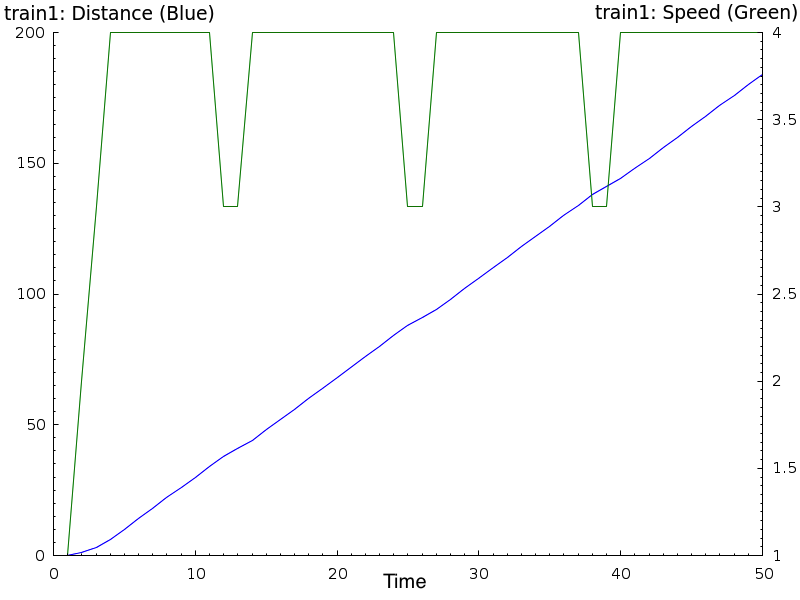
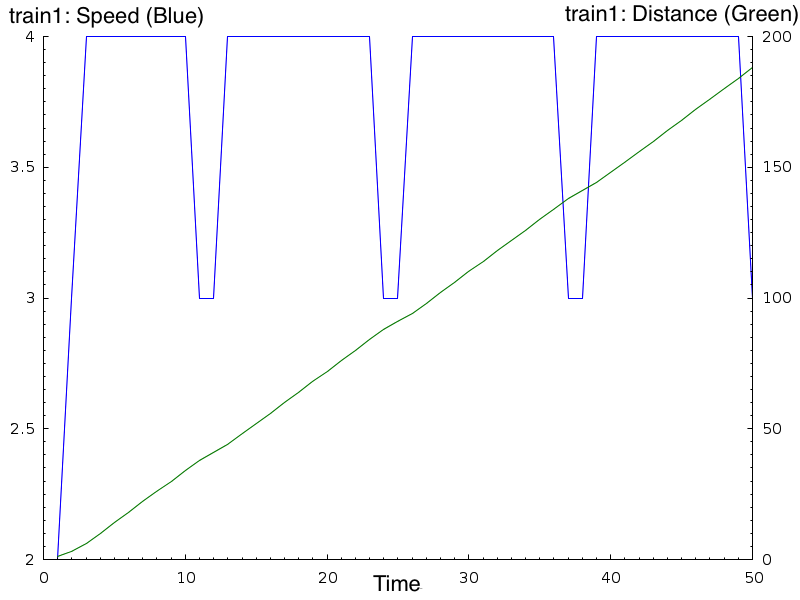
updated graphs

diff --git a/verifyertms.tex b/verifyertms.tex
@@ -31,14 +31,14 @@ Like the interlocking, the RBC is also initially idle. Since the lasttrain varia
 
 \begin{lstlisting}[caption = The intital state of train1 in Maude]
  eq initialtrainstate1 = < train1 : Train | state : acc,  dist : 0, 
-                           speed : 0, ac : 1, ma : 49, 
+                           speed : 1, ac : 1, ma : 49, 
                            tseg : 0, maxspeed : 4 > .
 \end{lstlisting}
 We set the train1 to be accellerating initally with a distance and speed of 0 its movement authority is 49, it is in the 0 track segment and has a maxspeed of 4. 
 
 \begin{lstlisting}[caption = The intial state of train2 in Maude]
 eq initialtrainstate2  = < train2 : Train | state : acc, dist : 150, 
-                           speed : 0, ac : 1, ma : 199,
+                           speed : 1, ac : 1, ma : 199,
                            tseg : 3, maxspeed : 7 > .
 \end{lstlisting}
 Like train1, train2 is also accellerating initially and has a speed of 0.  Unlike train1 it has a distance of 150, a movement authority of 199, it is in the 4th track segment number 3 and has a maxspeed of 4. Both trains have an accelleration of 1. 
@@ -168,14 +168,12 @@ eq {REST < O1 : Train | state : S >} |= train-cons(O1)
 
 This predicate holds if there is a train in the configuration with object identifier O1 and a state cons. 
 
-
-
- We can use these two properties for formulate model checkng properties to check the correctness of our modelling approach. We can define two properties, one that states "the train is in the cons state if and only it is at its max speed" and the other "the train is in the stopped state if and only if its speed is 0". 
+We can use these two properties for formulate model checkng properties to check the correctness of our modelling approach. We can define two properties, one that states "the train is in the cons state if and only it is at its max speed" and the other "the train is in the stopped state if and only if its speed is 0". 
 
 \begin{lstlisting}
-Correct1 := 
-Correct2 :=
-Correct3 :=
+Correct1 := (mc initialstate2 |=u  ~(<> train-s(train1,5))  .)
+Correct2 := (mc initialstate2 |=u [] (train-s(train1,4) => train-cons(train1)) /\ (train-cons(train1) => train-s(train1,4)) .)
+Correct3 := (mc initialstate2 |=t [] ((train-s(train1,0) => (train-stop(train1) \/ train-brake(train1))) /\ (train-stop(train1) => train-s(train1,0))) .)
 \end{lstlisting}
 
 
@@ -248,12 +246,12 @@ The following table presents the times taken to verify the 4 safety properties M
 \begin{center}
 \begin{tabular}{c | c | c} 
 Safety Condition & Time Steps Checked & Time to Solve  \\ \hline
-Correct1 & untimed & s\\
-Correct2 & untimed & s\\
+Correct1 & untimed & 123.778 s\\
+Correct2 & untimed & 260.384s\\
 Correct3 & untimed & s\\
-MA1 (Pentagon)& untimed &77.724s  \\
-MA2 (Pentagon)& untimed &79.192s \\ 
-MA3 (Pentagon)&  untimed &79.380s \\
+MA1 (Pentagon)& untimed &134.703s  \\
+MA2 (Pentagon)& untimed &330.288s \\ 
+MA3 (Pentagon)&  untimed &343.856s \\
 P1 (Junction)& untimed &7.488s \\
 P2 (Junction)& untimed & 6.636s \\
 \end{tabular}
@@ -268,16 +266,25 @@ The no overlapping movement authorities safety property was verified using time 
 Safety Condition & Time Steps Checked & Time to Solve  \\ \hline
 MA1 (Realistic Pentagon) & 30 & 21.265s \\
 MA1 (Realistic Pentagon) & 40 & 30.453s \\
-MA1 (Realistic Pentagon) & 50 & 40.825s
+MA1 (Realistic Pentagon) & 50 & 40.825s \\
+MA1 (Realistic Pentagon) & 60 & 52.492s \\
+MA1 (Realistic Pentagon) & 70 & 65.224s \\
 \end{tabular}
 \end{center}
 
+Even though the Real Time Maude system is unable to performed untimed model checking on this example it can still perform bounded model checking of a large enough portition of the state space for us to be
 
 \section{Conclusion}
  We have presented the first attempt at modelling and verifying the combined ERTMS and interlocking system.
 \subsection*{Future Work}
 There are numerous ways in which our model can be extended. One of the biggest problems facing engineers when developing the ERTMS system is time and how it affects the transition of messages with delays often occurring. This could be easily be modelled following the work \cite{PO07} where delays are modelled in the communications between nodes of a wireless sensor network. Currently our trains have a jerky behaviour in terms of speed, breaking and accelerating in rapid succession there are several other behaviours that trains exhibit in real life that we have not captured in our model. Trains have the ability to coast where the engine in not powering the train but the brakes are not active which is used for several purposes. To save energy coasting and accelerating are often combined to hold the train at max speed. The trains may also coast before breaking when reaching the end of a movement authority.
 
-Currently the track is closed and trains are capable of looping round the track giving it an infinite state space. Opening up the track with an entrance and exit would provide the opportunity to model the hand over part of the protocol where new trains must register with the RBC on entering the track and then de-register upon leaving. This opening of the track would also finitise the state space possibly allowing for un-timed model checking to take place. This example could then be extended by increasing the complexity of the track further and then modelling routes and points. This would allow for the checking of a further safety conditions that states no train has a movement authority over a point in locked in the wrong direction or a moving point.
+
+\begin{comment}
+Currently the track is closed and trains are capable of looping round the track giving it a very large state space due to number of possible combinations of train location and speed. Opening up the track with an entrance and exit would provide the opportunity to model the hand over part of the protocol where new trains must register with the RBC on entering the track and then de-register upon leaving. This would  This example could then be extended by increasing the complexity of the track further and then modelling routes and points. This would allow for the checking of a further safety conditions that states no train has a movement authority over a point in locked in the wrong direction or a moving point.
+\end{comment}
+
+This next challenge would be to verify to verify some real world track layouts as would be controlled by the ERTMS system on its implementation. \textbf{Note to self: write some paragraph here to replace the above. something about different track layouts that can be verified.}
+
 
 The RBC has the possibility to pre-emptively grant movement authorities to trains without them requesting it in the case that a train is on a route which contains free sections of track behind a movement authority.  The trains could also request movement authorities before the point at which we reach the braking point.

diff --git a/Maude.tex b/Maude.tex
@@ -2,7 +2,7 @@
 
 \thesischapter{The Modelling of the European Rail Traffic Management System Using Real Time Maude}{The Modelling of ERTMS Using Real Time Maude}\label{chap:modelertms}
 
-In the following we present the Maude \cite{MC03,Maude} and Real Time Maude \cite{PO02,PO04,RTMaude} tools and describe how they can be used model the ERTMS system (See chapter \ref{chapter:ERTMS}).   We begin by giving a general introduction to Maude and Real Time Maude and then describe how each of the 3 subsystems (trains, the interlocking and the RBC) are specified following the hybrid automata formalisation found in chapter \ref{chap:hybrid}. Each of these individual components are modelled using object oriented specification. We define classes representing each of the subsystems and then rewrite rules are used to give objects from these classses behaviour. The  built-in message construct of the Real Time Maude system are used to define communication between the subsystems.
+In the following we present the Maude \cite{MC03,Maude} and Real Time Maude \cite{PO02,PO04,RTMaude} tools and describe how they can be used model the ERTMS system (See chapter \ref{chapter:ERTMS}).   We begin by giving a general introduction to Maude and Real Time Maude and then describe how each of the 3 subsystems (trains, the interlocking and the RBC) are specified following the hybrid automata formalisation found in chapter \ref{chap:hybrid}. Each of these individual components are modelled using object oriented specification. We define classes representing each of the subsystems and then rewrite rules are used to give objects from these classses behaviour. The  built-in message construct of the Real Time Maude system are used to define communication between the subsystems. 
 
 \subsection*{Related Work}
 The Maude System has been used for a variety of specification and verification tasks. Hardware such has microprocessors has been specified and verified \cite{NH00}. A distributed sensor network employing the OGDC algorithm has been modelled and verified using Real Time Maude \cite{PO07}. The modelling of the progression of time over the sensor network has inspired the distribution of in our ERTMS model. The Real Time Maude system can also be used for simulation and analysis of systems as seen in the work on the CASH Scheduling Algorithm \cite{PO06}. 
@@ -336,6 +336,7 @@ In our previous Real Time Maude specifications we have had a rewrite rules that 
 
 \begin{lstlisting}[caption = The delta time transition operation, label = code:delta]
 op delta : Configuration -> Configuration [frozen] . 
+op nondelta : Configuration -> Configuration .
 
 var OCREST : ObjectConfiguration .
 
@@ -343,7 +344,7 @@ rl [timetrans] : {OCREST} => {delta(OCREST)} in time 1 .
 rl [delta1] : delta(CON1 CON2) => delta(CON1)delta(CON2) .
 \end{lstlisting}
 
-The operation $\mathrm{delta}$ is frozen meaning that the configuration contained within will not be evaluated by the Maude until the $\mathrm{delta}$ operation has been evaluated. We only allow for time to be incremented on a global system containing an object configuration which cannot by definition contain any messages. This forces all messages sent in one time interval to be read during that interval. The delta1 rule distributes the delta operation over the constituent objects of a configuration until there are many deltas applied to configurations containing singleton objects. Each of these singleton objects has its own seperately defined behaviour for the delta operation that captures that transition of time for that object. This was inspired by  \cite{PO07} where a delta operation is used to distribute time over a distributed sensor network. 
+The operation \texttt{nondelta} is frozen meaning that the configuration contained within will not be evaluated by the Maude until the $\mathrm{delta}$ operation has been evaluated. We only allow for time to be incremented on a global system containing an object configuration which cannot by definition contain any messages. This forces all messages sent in one time interval to be read during that interval. The delta1 rule distributes the delta operation over the constituent objects of a configuration until there are many deltas applied to configurations containing singleton objects. Each of these singleton objects has its own seperately defined behaviour for the delta operation that captures that transition of time for that object. This was inspired by  \cite{PO07} where a delta operation is used to distribute time over a distributed sensor network. The \texttt{nondelta} operation is applied to objects to prevent the elapse of time by causing the object to have the sort \texttt{Configuration} instead of \texttt{ObjectConfiguration}.
 
 \subsubsection*{Modelling Trains}
 We shall now describe the specification of trains. We define the Train class to have a state which like our hybrid automata can be in one of 4 possibilities, constant speed, accelerating, stopped and braking. As well as the state it also has 6 fields of sort Nat representing the distance, speed, acceleration, movement authority,  current track segment and max speed.
